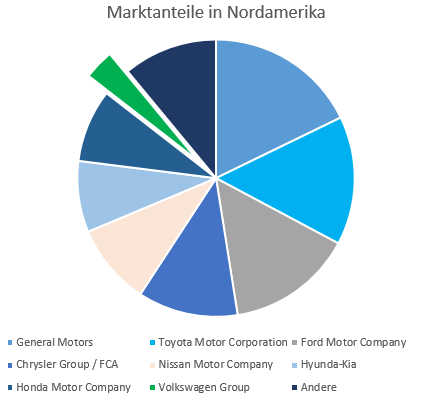
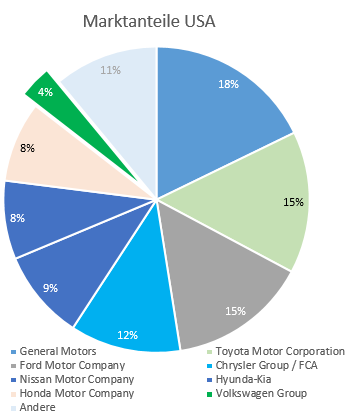
...

diff --git a/doc.tex b/doc.tex
@@ -20,7 +20,7 @@
 \pagestyle{scrheadings}
 \usepackage[
 top    = 2.75cm,
-bottom = 2.00cm,
+bottom = 2.75cm,
 left   = 2.50cm,
 right  = 2.00cm]{geometry}
 \setcounter{secnumdepth}{4}
@@ -48,7 +48,6 @@ right  = 2.00cm]{geometry}
 
 \begin{center}
 \large
-Authors: \\ 
 Bergler \textsc{Adrian} \&
 Haidn \textsc{Martin} \&
 Siegel \textsc{Hannah} \&
@@ -75,13 +74,11 @@ Soyka \textsc{Wolfram}
 
 \newpage
 
-\section{Auswahl des Unternehmens}
-
+\noindent
+Wir haben uns für das Unternehmen Volkswagen Group entschieden, da es ein produzierenden Unternehmen im deutschsprachigem Raum ist. Da es die Gesellschaftsform einer Aktien Gesellschaft hat, sind die Zahlen sowie sämtliche Informationen einsichtlich. 
 \section{Volkswagen AG}
-http://www.economist.com/node/21558269
 \subsection{Das Unternehmen}
-Die Volkswagen AG, ist Europas größter Automobilhersteller. Zum Volkswagen-Konzern gehören die Marken Audi, Bentley, Bugatti, Lamborghini, Seat, Skoda, Volkswagen und Volkswagen Nutzfahrzeuge. Allein in Deutschland gibt es neun Volkswagenwerke.
-
+Die Volkswagen AG ist Europas größter Automobilhersteller. Zum Volkswagen-Konzern gehören die Marken Audi, Bentley, Bugatti, Lamborghini, Seat, Skoda, Volkswagen und Volkswagen Nutzfahrzeuge. Allein in Deutschland gibt es neun Volkswagenwerke.
 \subsubsection{Historie}
 Der Volkswagen - die Idee, die relativ neue Erfindung der Automobilität in Form eines Wagens der für den kleinen Mann bezahlbar sei an selbigen zu bringen - kam erstmals im um 1904 herum auf. Allerdings vergingen 33 Jahre bis im Mai 1937 dazu dann die „Gesellschaft zur Vorbereitung des Deutschen Volkswagen mbH“ gegründet, welche im Jahr darauf in „Volkswagenwerk GmbH“ umbenannt wurde.\cite{vwchronik} \\
 In Wolfsburg wurde das VW-Werk errichtet, wo der sogenannte KdF-Wagen (Kraft durch Freude), der größtenteils vom Konstrukteur Ferdinand Porsche konzipiert war, hergestellt wurde. Von Anfang an war den Herstellern allerdings aus vorhergehenden Versuchen diverser Automobilherstellern klar, dass der von Hitler geforderte Preis von höchstens 1000 Reichsmark nicht eingehalten werden konnte. \cite{geschdautos}\\
@@ -149,13 +146,9 @@ Im Juni 2014 hat die Volkswagen Aktiengesellschaft 10.471.204 neue Vorzugsaktien
 20,00\% Land Niedersachsen, Hannover\\
 17,00\% Qatar Holding LLC\\
 12,30\% Weitere
-\\ \\
-\textbf{Recovery}\\
-"When Ferdinand Piëch arrived as Volkswagen's chief executive in 1993, things looked dire. The carmaker was overspending, overmanned and inefficient, and had lost its reputation for quality. How things have changed: last year the VW group's profits more than doubled, to a record €18.9 billion (\$23.8 billion). As other European volume carmakers seek to close factories and cut jobs, VW is seizing market share in Europe, booming in China and staging a comeback in America. It plans to spend €76 billion on new models and new factories by 2016. Its global workforce is more than half a million, and growing."\cite{ec2}
-\\ \\
-\textbf{Sales in America} \\
-"The firm reported some of its best sales figures since the era of the original Beetle—and said it wanted to sell at least 800,000 vehicles per year in America by 2018.\\
-Then, rather suddenly, things went south. Although Volkswagen of America is still well ahead of where it was before the Great Recession, it has suffered two consecutive years of declining sales. And in the first five months of 2014, as rivals such as GM posted some of their best numbers in a decade, the VW brand’s sales dropped by another 15\%. With sales in America barely above 400,000 in 2013, down 7\% from the previous year, doubts have been growing as to whether VW will be able to reach its target of 800,000 by 2018." \cite{ec1}
+%\\ \\
+%\textbf{Recovery}\\
+%"When Ferdinand Piëch arrived as Volkswagen's chief executive in 1993, things looked dire. The carmaker was overspending, overmanned and inefficient, and had lost its reputation for quality. How things have changed: last year the VW group's profits more than doubled, to a record €18.9 billion (\$23.8 billion). As other European volume carmakers seek to close factories and cut jobs, VW is seizing market share in Europe, booming in China and staging a comeback in America. It plans to spend €76 billion on new models and new factories by 2016. Its global workforce is more than half a million, and growing."\cite{ec2}
 
 \newpage
 \begin{table}
@@ -203,7 +196,7 @@ Das Produktspektrum der Volkswagen AG beinhaltet alle Kfz vom Stadtfahrzeug, üb
 So unterteilt sich der Konzern in die Folgenden Marken und Tochtergesellschafen.
 \begin{figure}[here!]
 \centering
-% \includegraphics[width=0.7\textwidth]{images/Volkswagen-Group-Brands} %TODO
+\includegraphics[width=0.7\textwidth]{images/Volkswagen-Group-Brands} %TODO
 \caption{Marken und Tochtergesellschaften der Volkswagen AG. \cite{marken}}
 \end{figure}\FloatBarrier
 \noindent
@@ -421,7 +414,7 @@ Die Hierarchie sieht dabei wie folgt aus:
 \begin{table}[h]
 	\begin{tabular}{|c|c|c|c|c|c|c|c|c|}
 		\hline
-		\multicolumn{|9|}{|c|}{Volkswagen AG}                                                                                                                                                     \\ \hline
+		\multicolumn{9}{|c|}{Volkswagen AG}                                                                                                                                                     \\ \hline
 		\multicolumn{3}{|c|}{Volkswagen} & \multicolumn{2}{c|}{Audi} & \multicolumn{2}{c|}{\begin{tabular}[c]{@{}c@{}}Volkswagen\\ Nutzfahrzeuge\end{tabular}} & \multicolumn{2}{c|}{Weitere} \\ \hline
 		Skoda    & Bugatti   & Bentley   & Seat     & Lamborghini    & Scania                                       & MAN                                      & Suzuki       & Porsche       \\ \hline
 	\end{tabular}
@@ -479,7 +472,7 @@ Wie in Abbildung \ref{fig:markteuropa} ersichtlich ist, führt Volkswagen den Ma
 \label{fig:markteuropa}
 \end{figure}\FloatBarrier
 \noindent
-\textbf{Asia}\\
+\textbf{Asien}\\
 "Seit Beginn seiner Reform- und Öffnungspolitik vor über 30 Jahren ist China zu einem der wichtigsten Automobilmärkte der Welt aufgestiegen und bildet inzwischen den größten Absatzmarkt des Volkswagen Konzerns. Mit einem Anteil von 20,8 \% am Pkw-Markt und 3,27 Millionen verkauften Fahrzeugen im Geschäftsjahr 2013 ist der Volkswagen Konzern Marktführer in China."\cite{vwwebsitechina}\\
 Durch das dort Ansässigle Unternehmen  Shanghai-Volkswagen Automotive Company (SVW) sowie des Unternehmens FAW-Volkswagen Automotive Company Ltd. (FAW-VW) konnten auch viele Produktionsstandorte in China verwendet werden.
 Asien, insbesondere China zeichnet sich durch eine stetig steigende Nachfrage aus. So wurden inzwischen etwa 17 Gesellschaften (Komponenten-, Finanz- und Vertriebsgesellschaften) in Asien gegründet. \\
@@ -498,6 +491,8 @@ Volkswagen konnte sich in Amerika noch nicht durchsetzten. Derzeit hat Volkswage
 \label{fig:marktnordamerika}
 \end{figure}\FloatBarrier
 \noindent
+Trotzdem konnte Volkswagen 2013 die Besten Verkaufszahlen seit dem Beetle erwirtschaften und laut eigenen Angaben sollen ab 2018 mindestens 800000 Autos pro Jahr verkauft werden. In den ersten fünf Monaten von 2015 jedoch ist der Verkauf wieder um 15\% gefallen, zu gunsten von GM.
+Mit nur circa 400,000 verkauften Neuwagen in 2013 - um 7\% weniger als im Vorjahr - ist es nicht klar, ob das Ziel bis 2018 noch erreicht werden kann.\cite{ec1}
 
 \subsection{Ziele und Zukunftsaspekte}
 Laut der Volkswagen Website steht bis 2018 die Positionierung des Konzerns als weltweit führend sowohl ökonomisch und ökologisch.\\
@@ -795,53 +790,61 @@ Die Postleitzahl der Zentrale in Wolfsburg (D) ist 38440.
 \end{figure}\FloatBarrier
 \noindent
 \subsection{Auswahl}
-
-
-
- Microsoft Dynamics AX 2012
- 
- SAP Business All-in-One
-
-Microsoft Österreich GmbH / Dynamics NAV
-
-
-
+Zuerst konnte uns Trovarit leider keinen Kandidaten liefern, da alle Lösungen mindestens ein Knock-Out Kriterium erfüllt haben.
 \begin{figure}[here!]
 \centering
-\includegraphics[width=0.7\textwidth]{images/matching1}
+\includegraphics[width=0.5\textwidth]{images/matching1}
+\caption{Kein Ergebniss}
+\label{fig:matching1}
 \end{figure}\FloatBarrier
 \noindent
+Ohne die Knock out Kriterien zu berücksichtigen, war das Ergebniss unserer Analysen wie folgt:
 
+\begin{itemize}
+\item Microsoft Dynamics AX 2012 \\
+		82\% Erfüllung mit eigenem Produkt\\
+		97\% Erfüllung mit Partnerprodukt\\
+		über KCS.net Holding AG Vertrieben\\
+		Nachteile: Eignet sich nicht für Banken und Versicherungsbetriebe, Unterstützt keine Vertriebsstrategien, übernimmt kein Facility Management, die Lösung ist nicht Datenbankunabhängig und unterstützt kein Marketing über Facebook, sowie kein Hindi, Griechisch, Koreanisch und Slowenisch.
+		
 \begin{figure}[here!]
 \centering
 \includegraphics[width=0.7\textwidth]{images/matching2}
 \end{figure}\FloatBarrier
 \noindent
+\item SAP Business All-in-One\\
+		93\% Erfüllung mit eigenem Produkt\\
+		96\% Erfüllung mit Partnerprodukt\\		
+		über IBYKUS AG für Informationstechnologie Vertrieben\\
+		Nachteile: Unterstützt keine Bilanzerstellung nach OR (CH), keine Social Business Collaboration, keine Standardnotationen, sowie keine Digitale Fabrikplanung. Der Anbieter an sich hat keine Standorte in Wien, USA und China. Des weiteren ist die Lösung nicht für Android-basierte Geräte verfügbar.
+		
 
 \begin{figure}[here!]
 \centering
 \includegraphics[width=0.7\textwidth]{images/matching3}
 \end{figure}\FloatBarrier
 \noindent
-
+\item Microsoft Dynamics NAV\\
+	93\% Erfüllung mit eigenem Produkt\\
+		96\% Erfüllung mit Partnerprodukt\\				über Microsoft Österreich Vertrieben\\
+		Nachteile: Unterstützt nur subotimal mehr als 249 Arbeitsplätze, hat nicht in allen Ländern Testate des Finanzwesens sowie ist es nicht Datenbank unabhängig. 
+		
+\FloatBarrier
 \begin{figure}[here!]
 \centering
 \includegraphics[width=0.7\textwidth]{images/matching4}
 \end{figure}\FloatBarrier
 \noindent
+\end{itemize}
+Wir würden uns am ehesten für Microsoft Dynamics NAV entscheiden, da hier am meisten mit dem eigentlichen Produkt abgedeckt worden ist und da die Nachteile eigentlich eher minimal sind.
+ 
 
+%\section*{Projekthandbuch}
+%\section*{Pflichtenheft}
+%\section*{Vorbereitung Kick Off Meeting}
 
-\section*{Projekthandbuch}
-\section*{Pflichtenheft}
-\section*{Vorbereitung Kick Off Meeting}
-
-
-
-
-\newpage
-\listoftables
-\listoffigures
-\subsection{Easy Bibliography}
+\small
+\newpage\newpage
 \begin{thebibliography}{56}
 
  \bibitem{ec1} 
@@ -859,42 +862,42 @@ Microsoft Österreich GmbH / Dynamics NAV
    
  \bibitem{ec3} 
   \textbf{Europe goes electric - The Frankfurt motor show
-}\\,Sep 12th 2013 , P.E., The Economist\\
+}\\Sep 12th 2013 , P.E., The Economist\\
   \textit{  http://www.economist.com/node/21558269}
   \newline last used: 07.03.2015, 13:09
   
    \bibitem{vsc50y} 
-  \textbf{Volkswagen Share celebrates its 50th birthday}\\, Jun 4th 2011 , Volkswagen AG\\
-  \textit{http://www.volkswagenag.com/content/vwcorp/info\_center/en/themes/2011/04/Volkswagen\_Share\_celebrates\_its\_50th\_birthday.html
+  \textbf{Volkswagen Share celebrates its 50th birthday}\\ Jun 4th 2011 , Volkswagen AG\\
+  \textit{http://www.volkswagenag.com/content/vwcorp/info\_center/en/themes/2011/04/\\Volkswagen\_Share\_celebrates\_its\_50th\_birthday.html
 }
   \newline last used: 07.03.2015, 13:16
   
    \bibitem{2008kurs} 
-  \textbf{Volkswagen Share celebrates its 50th birthday}\\, Jun 4th 2011 , Volkswagen AG\\
+  \textbf{Volkswagen Share celebrates its 50th birthday}\\ Jun 4th 2011 , Volkswagen AG\\
   \textit{  http://www.boerse.de/boersenwissen/boersengeschichte/Kurskapriolen-der-VW-Aktie-2008-\%7C45}
   \newline last used: 07.03.2015, 13:24
   
 
    \bibitem{jbilanz2013vw} 
   \textbf{ABSCHLUSS VOLKSWAGEN AG }, 2013 \\
-  \textit{ http://www.volkswagenag.com/content/vwcorp/info\_center/de/publications/2014/03/Financial\_Statements\_VWAG\_2013.bin.html/binarystorageitem/file/Abschluss+Volkswagen+AG+2013\_deutsch.pdf  
+  \textit{ http://www.volkswagenag.com/content/vwcorp/info\_center/de/publications/2014/03/\\Financial\_Statements\_VWAG\_2013.bin.html/binarystorageitem/file/Abschluss+Volkswagen+AG+2013\_deutsch.pdf  
 }
   \newline last used: 08.03.2015, 14:03
     
     
        \bibitem{aktionaersstruktur} 
   \textbf{Aktionärsstruktur Volkswagen AG}, Stand 31.12.2014 \\
-  \textit{http://www.volkswagenag.com/content/vwcorp/content/de/investor\_relations/share/Shareholder\_Structure.html}
+  \textit{http://www.volkswagenag.com/content/vwcorp/content/\\de/investor\_relations/share/Shareholder\_Structure.html}
   \newline last used: 01.04.2015, 15:04
     
   \bibitem{structure1} 
   \textbf{Struktur und Geschäftstätigkeit}\\
-  \textit{http://www.volkswagenag.com/content/gb2007/content/de/corporate\_governance/structure\_and\_business\_activities\_\_part\_of\_the\_management\_report\_.html}
+  \textit{http://www.volkswagenag.com/content/gb2007/content/de/corporate\_governance/\\structure\_and\_business\_activities\_\_part\_of\_the\_management\_report\_.html}
   \newline last used: 01.04.2015, 16:47
   
   \bibitem{domavw} 
   \textbf{Aufbauorganisation der Volkswagen AG}, volkswagenag.com \\
-  \textit{http://bauhaus.cs.uni-magdeburg.de:8080/miscms.nsf/FEA8C8150500AA14C1257449004F79A9/CE79949E8E27681DC12579C1006D9A27/\$FILE/Diplomarbeit\%20Oliver\%20Meier.pdf}
+  \textit{http://bauhaus.cs.uni-magdeburg.de:8080/miscms.nsf/FEA8C8150500AA14C1257449004F79A9\\/CE79949E8E27681DC12579C1006D9A27/\$FILE/Diplomarbeit\%20Oliver\%20Meier.pdf}
   \newline last used: 01.04.2015, 18:51  
   
        \bibitem{2008wtf} 
@@ -919,7 +922,7 @@ Microsoft Österreich GmbH / Dynamics NAV
   
   \bibitem{struktur} 
  \textbf{Struktur und Geschäftstätigkeit}, volkswagenag.com \\
-  \textit{	http://www.volkswagenag.com/content/gb2007/content/de/corporate\_governance/structure\_and\_business\_activities\_\_part\_of\_the\_management\_report\_.html}
+  \textit{	http://www.volkswagenag.com/content/gb2007/content/de/corporate\_governance\\/structure\_and\_business\_activities\_\_part\_of\_the\_management\_report\_.html}
   \newline last used: 01.04.2015, 15:57  
 
       \bibitem{yahoofinanzenvw} 
@@ -933,8 +936,8 @@ Microsoft Österreich GmbH / Dynamics NAV
   \newline last used: 01.04.2015, 17:00  
     
       \bibitem{vwwebsitechina} 
- \textbf{Markt Spezial : China},volkswagenag.com \\
-  \textit{http://www.volkswagenag.com/content/vwcorp/content/de/investor\_relations/Warum\_Volkswagen/Marke\_Focus.html
+ \textbf{Markt Spezial: China},volkswagenag.com \\
+  \textit{http://www.volkswagenag.com/content/vwcorp/content/de/investor\\\_relations/Warum\_Volkswagen/Marke\_Focus.html
 }
   \newline last used: 01.04.2015, 17:38
   \bibitem{geschdautos} 
